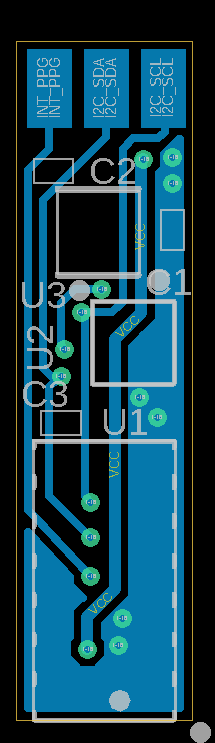
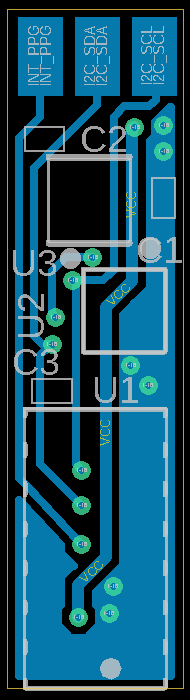
sistemazione immagini eagle

diff --git a/Tesi/TextFiles/Progetto della piattaforma indossabile/Hardware dell’adapter board.tex b/Tesi/TextFiles/Progetto della piattaforma indossabile/Hardware dell’adapter board.tex
@@ -42,13 +42,13 @@ Il layout è stato progettato partendo dallo schematico, avendo cura di realizza
 \begin{figure}[b]
 	\centering
 	a$)$
-	\includegraphics[width=0.15\linewidth]{ImageFiles/Hardware/layout_top_maxm}
+	\includegraphics[width=0.1567\linewidth]{ImageFiles/Hardware/layout_top_maxm}
 	b$)$
-	\includegraphics[width=0.15\linewidth]{ImageFiles/Hardware/layout_bottom_maxm}
+	\includegraphics[width=0.1567\linewidth]{ImageFiles/Hardware/layout_bottom_maxm}
 	c$)$
-	\includegraphics[width=0.1567\linewidth]{ImageFiles/Hardware/manifacturing_top_maxm}
+	\includegraphics[width=0.15\linewidth]{ImageFiles/Hardware/manifacturing_top_maxm}
 	d$)$
-	\includegraphics[width=0.1567\linewidth]{ImageFiles/Hardware/manifacturing_bottom_maxm}
+	\includegraphics[width=0.15\linewidth]{ImageFiles/Hardware/manifacturing_bottom_maxm}
 	\caption{Layout Adapter Board con modulo MAXM86161: a$)$ Livello Top, b$)$ Livello Bottom, c$)$ Rendering 2D Top, d$)$ Rendering 2D Bottom}
 	\label{fig:Layout_maxm}
 \end{figure}
@@ -127,13 +127,13 @@ La realizzazione del layout è stata fatta sempre avendo cura di avere una sched
 \begin{figure}[tb]
 	\centering
 	a$)$
-	\includegraphics[width=0.15\linewidth]{ImageFiles/Hardware/layout_top_max}
+	\includegraphics[width=0.1459\linewidth]{ImageFiles/Hardware/layout_top_max}
 	b$)$
-	\includegraphics[width=0.15\linewidth]{ImageFiles/Hardware/layout_bottom_max}
+	\includegraphics[width=0.1459\linewidth]{ImageFiles/Hardware/layout_bottom_max}
 	c$)$
-	\includegraphics[width=0.1568\linewidth]{ImageFiles/Hardware/manifacturing_top_max}
+	\includegraphics[width=0.16\linewidth]{ImageFiles/Hardware/manifacturing_top_max}
 	d$)$
-	\includegraphics[width=0.1568\linewidth]{ImageFiles/Hardware/manifacturing_bottom_max}
+	\includegraphics[width=0.16\linewidth]{ImageFiles/Hardware/manifacturing_bottom_max}
 	\caption{Layout Adapter Board con modulo MAX86916: a$)$ Livello Top, b$)$ Livello Bottom, c$)$ Rendering 2D Top, d$)$ Rendering 2D Bottom}
 	\label{fig:Layout_max}
 \end{figure}
